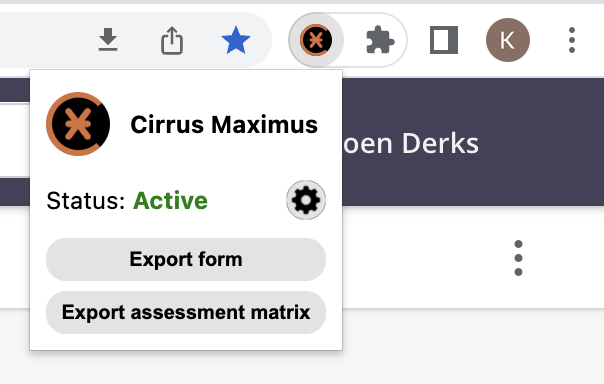
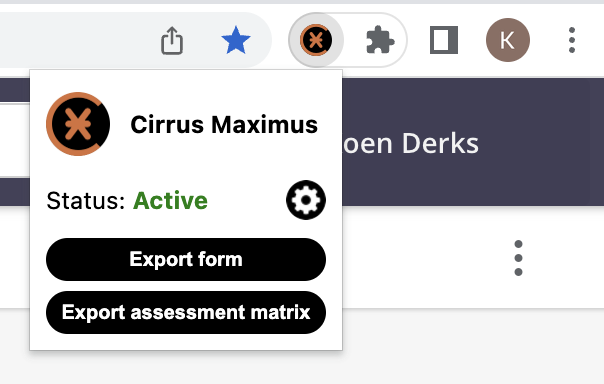
Update

Changed region(s): [[0.0596, 0.4688, 0.5662, 0.875], [0.149, 0.0625, 0.2086, 0.1562]]

diff --git a/css/popup.css b/css/popup.css
@@ -22,7 +22,7 @@ body {
 	cursor: pointer;
 	background: url(../images/gear-32.png);
 	background-size: cover;
-	background-color: #000000;
+	background-color: #ffffff;
 }
 
 .options-button:hover {
@@ -38,10 +38,10 @@ body {
 	font-size: 10px;
 	font-family: Arial, Helvetica, sans-serif;
 	font-weight: bold;
-	border-radius: 10px;
+	border-radius: 15px;
 	border: none;
-	background-color: #e3e3e3;
-	color: #000000;
+	background-color: #000000;
+	color: #ffffff;
 	cursor: pointer;
 	transition: all 0.3s ease-in-out;
 	text-align: center;

diff --git a/css/options.css b/css/options.css
@@ -11,9 +11,9 @@
 	font-family: Arial, Helvetica, sans-serif;
 	font-weight: bold;
 	border-radius: 10px;
-	border: 0px solid #000000;
-	background-color: #e3e3e3;
-	color: #000000;
+	border: none;
+	background-color: #000000;
+	color: #ffffff;
 	cursor: pointer;
 	transition: all 0.3s ease-in-out;
 	text-align: center;
